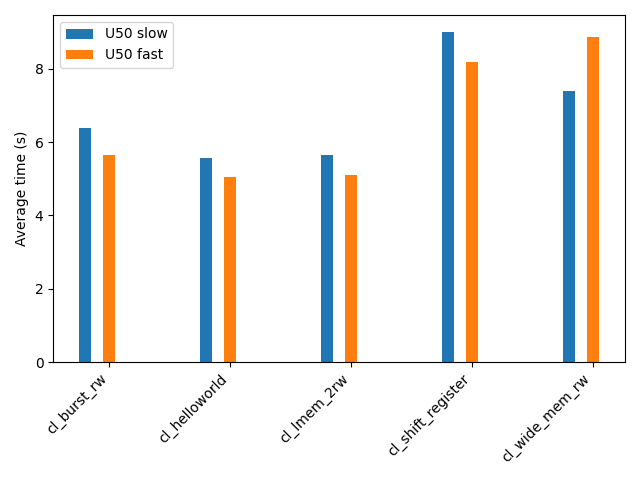
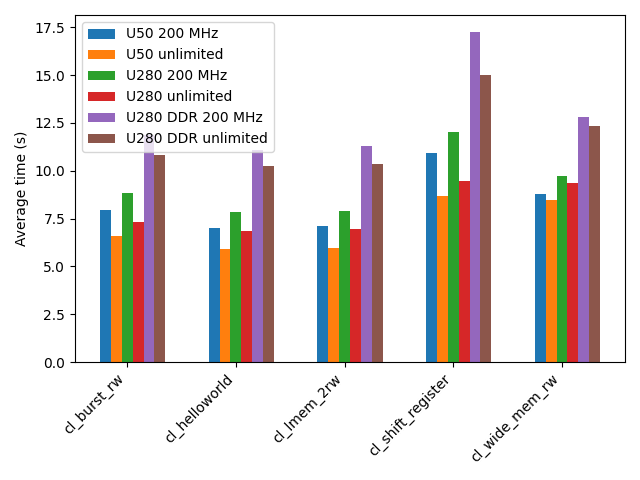
Update execution time script

diff --git a/performance/execution-time.py b/performance/execution-time.py
@@ -3,24 +3,31 @@
 import pandas as pd
 import numpy as np
 import matplotlib.pyplot as plt
+import common
 
 df_u50_slow = pd.read_csv("../data/u50-slow.csv", skipinitialspace=True)
-df_u280_slow = pd.read_csv("../data/u280-slow.csv", skipinitialspace=True)
+df_u50_slow_kernel = pd.read_csv("../data/u50-slow-kernel.csv", skipinitialspace=True)
 df_u50_fast = pd.read_csv("../data/u50-fast.csv", skipinitialspace=True)
+df_u50_fast_kernel = pd.read_csv("../data/u50-fast-kernel.csv", skipinitialspace=True)
+df_u280_slow = pd.read_csv("../data/u280-slow.csv", skipinitialspace=True)
+df_u280_slow_kernel = pd.read_csv("../data/u280-slow-kernel.csv", skipinitialspace=True)
 df_u280_fast = pd.read_csv("../data/u280-fast.csv", skipinitialspace=True)
+df_u280_fast_kernel = pd.read_csv("../data/u280-fast-kernel.csv", skipinitialspace=True)
 df_u280_ddr_slow = pd.read_csv("../data/u280-ddr-slow.csv", skipinitialspace=True)
+df_u280_ddr_slow_kernel = pd.read_csv("../data/u280-ddr-slow-kernel.csv", skipinitialspace=True)
 df_u280_ddr_fast = pd.read_csv("../data/u280-ddr-fast.csv", skipinitialspace=True)
+df_u280_ddr_fast_kernel = pd.read_csv("../data/u280-ddr-fast-kernel.csv", skipinitialspace=True)
 
 bar_width = 0.1
 app_names = df_u50_slow["app_name"].values
 x = np.arange(len(app_names))
 
-plt.bar(x - 2 * bar_width, df_u50_slow["average"].values, width=bar_width, label="U50 slow")
-plt.bar(x - bar_width, df_u280_slow["average"].values, width=bar_width, label="U280 slow")
-plt.bar(x, df_u50_fast["average"].values, width=bar_width, label="U50 fast")
-plt.bar(x + bar_width, df_u280_fast["average"].values, width=bar_width, label="U280 fast")
-plt.bar(x + 2 * bar_width, df_u280_ddr_slow["average"].values, width=bar_width, label="U280 DDR slow")
-plt.bar(x + 3 * bar_width, df_u280_ddr_fast["average"].values, width=bar_width, label="U280 DDR fast")
+plt.bar(x - 2 * bar_width, df_u50_slow["average"].values, width=bar_width, label=f"U50 {common.BASE_FREQ} MHz")
+plt.bar(x -     bar_width, df_u50_fast["average"].values, width=bar_width, label="U50 unlimited")
+plt.bar(x                , df_u280_slow["average"].values, width=bar_width, label=f"U280 {common.BASE_FREQ} MHz")
+plt.bar(x +     bar_width, df_u280_fast["average"].values, width=bar_width, label="U280 unlimited")
+plt.bar(x + 2 * bar_width, df_u280_ddr_slow["average"].values, width=bar_width, label=f"U280 DDR {common.BASE_FREQ} MHz")
+plt.bar(x + 3 * bar_width, df_u280_ddr_fast["average"].values, width=bar_width, label="U280 DDR unlimited")
 
 plt.xticks(x, app_names, rotation=45, ha="right")
 plt.ylabel("Average time (s)")

diff --git a/performance/common.py b/performance/common.py
@@ -1,0 +1,1 @@
+BASE_FREQ = 200
